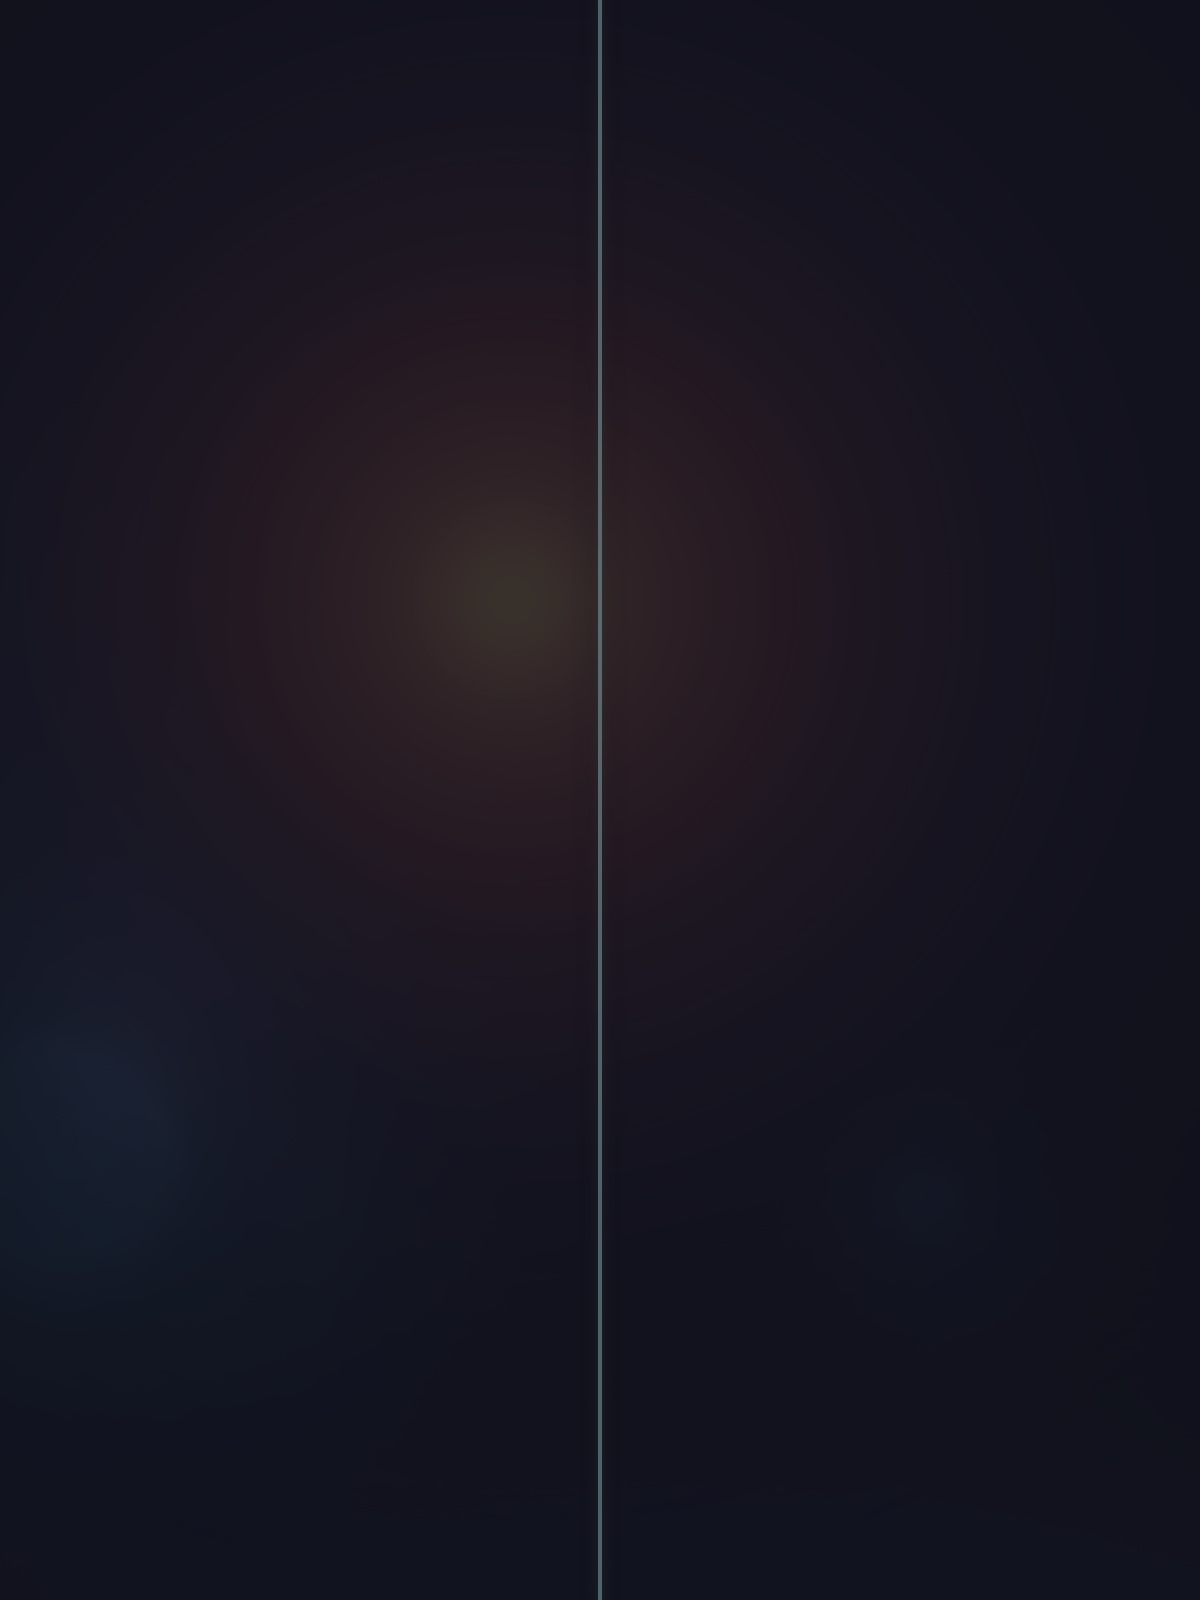
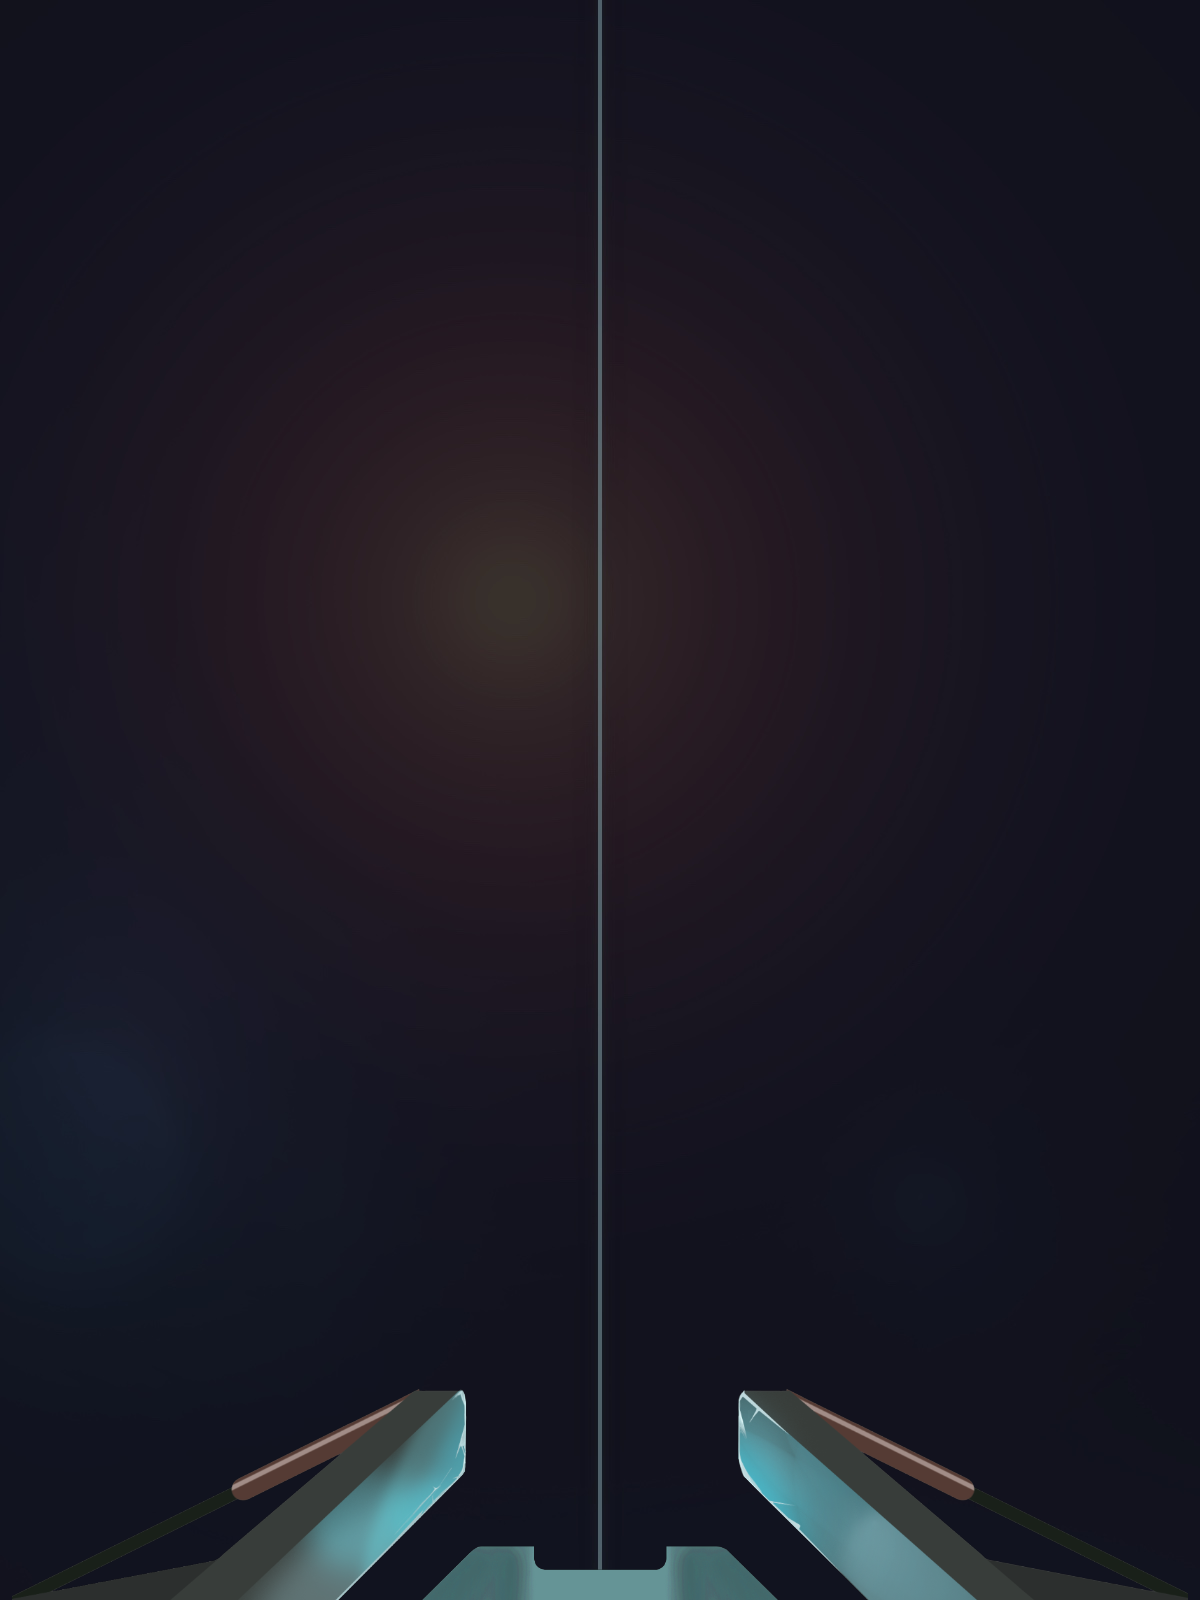
make bg

Changed region(s): [[0.0308, 0.8438, 0.6475, 1.0], [0.6167, 0.8438, 0.9867, 1.0]]

diff --git a/core/src/com/leo/game/actors/BackgroundActor.java b/core/src/com/leo/game/actors/BackgroundActor.java
@@ -20,7 +20,7 @@ public class BackgroundActor extends Actor {
 
     public BackgroundActor(){
 
-        bg = new Texture("bg.png");
+        bg = new Texture("bg1.png");
         bgSprite = new Sprite(bg);
         bgSprite.setSize(Security.WIDTH, Security.HEIGHT);
 
